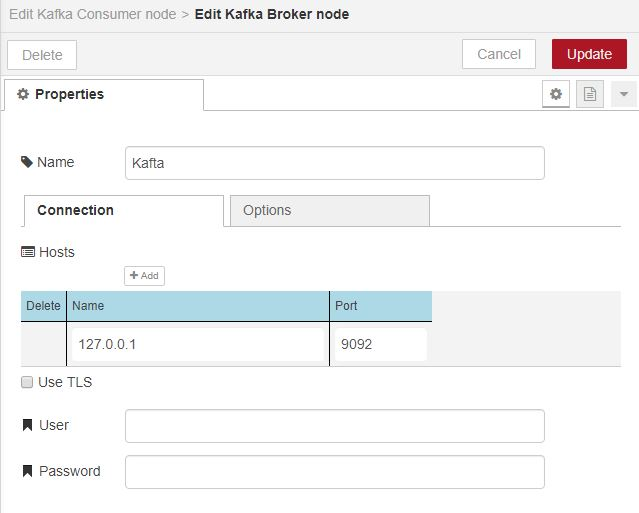
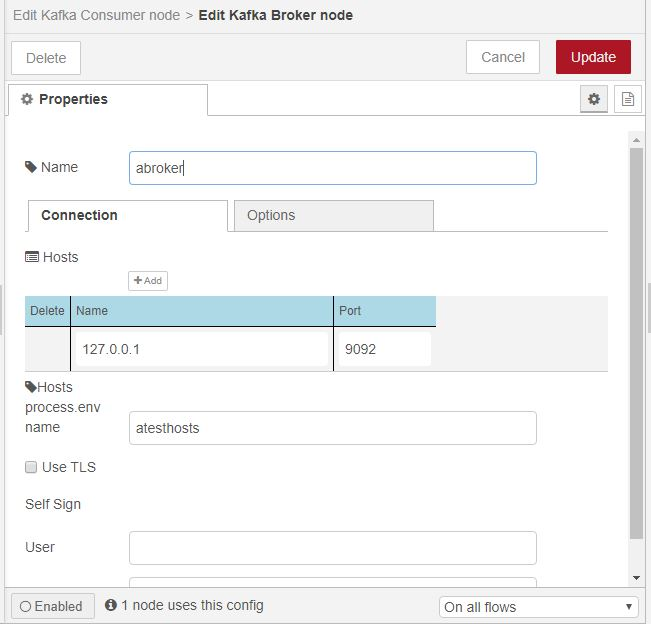
add broker hosts via process.env

diff --git a/kafkaManager/kafkaBroker.html b/kafkaManager/kafkaBroker.html
@@ -1,5 +1,8 @@
 <script type="text/x-red" data-help-name="Kafka Broker">
     <p>Define a Kafka Broker. </p>
+    <p>"Hosts process.env name" can contain a process.env property name that contained hosts as JSON string,e.g.</p>
+    <textarea>process.env.atesthosts='[{"host":"atesthost1","port":1234},{"host":"atesthost2","port":4321}]';</textarea>
+    <p>Note, minimal data quality checks performed.</p>
 </script>
 
 <script type="text/x-red" data-template-name="Kafka Broker">
@@ -16,24 +19,28 @@
     <div id="node-config-kafkaBroker-tabs-content" style="min-height: 170px;">
 		<div id="kafkaBroker-tab-connection" style="display:none">
 
-
-   <div class="form-row node-input-hosts-container-row" style="margin-bottom:0px; width:100%; min-width:520px">
-		<label style="vertical-align:top;">
-			<i class="fa fa-list-alt"></i> Hosts 
-        	<a href="#" class="editor-button editor-button-small" id="node-input-add-host" style="margin-top: 4px; margin-left: 103px;"><i class="fa fa-plus"></i> <span>Add</span></a>
-		</label>
-		<div style="width:100%; display: inline-block; background-color:#f3f3f3; border-top:0px solid; border-radius:0 0 0 0; border-bottom:1px solid #ccc;">
-				<table>
- 	              	<tbody id="node-input-hosts-tbody" stype="display: block;  overflow: auto; max-width:400px; max-height: 400px;">
-                		<tr style="padding-left:4px; border-bottom: 1px solid black; background: lightblue; position: sticky; top: 0;">
-                			<td style="min-width: 10px;">Delete</td>
-                			<td style="min-width: 200px;">Name</td>
-                			<td style="min-width: 60px;">Port </td>
-                		</tr>
-                	</tbody>
-			</table>
-		</div>
-    </div>
+			<div class="form-row node-input-hosts-container-row" style="margin-bottom:0px; width:100%; min-width:520px">
+				<label style="vertical-align:top;">
+					<i class="fa fa-list-alt"></i> Hosts 
+        			<a href="#" class="editor-button editor-button-small" id="node-input-add-host" style="margin-top: 4px; margin-left: 103px;"><i class="fa fa-plus"></i> <span>Add</span></a>
+				</label>
+				<div style="width:100%; display: inline-block; background-color:#f3f3f3; border-top:0px solid; border-radius:0 0 0 0; border-bottom:1px solid #ccc;">
+					<table>
+ 	              		<tbody id="node-input-hosts-tbody" stype="display: block;  overflow: auto; max-width:400px; max-height: 400px;">
+                			<tr style="padding-left:4px; border-bottom: 1px solid black; background: lightblue; position: sticky; top: 0;">
+                				<td style="min-width: 10px;">Delete</td>
+                				<td style="min-width: 200px;">Name</td>
+                				<td style="min-width: 60px;">Port </td>
+                			</tr>
+                		</tbody>
+					</table>
+				</div>
+ 			</div>
+ 			
+ 			<div class="form-row">
+        		<label for="node-config-input-hostsEnvVar"><i class="fa fa-tag"></i>Hosts process.env name</label>
+        		<input id="node-config-input-hostsEnvVar" type="text" >
+    		</div>
 
 			<div class="form-row">
 				<input type="checkbox" id="node-config-input-usetls" style="display: inline-block; width: auto; vertical-align: top;">
@@ -122,7 +129,8 @@
         	name: {required:false},
         	host: {required:false},   // legacy can be removed in future
         	port: {required:false},   // legacy can be removed in future
-        	hosts: {value:[{host:"127.0.0.1",port:9092}] ,required:true},
+        	hosts: {value:[{host:"127.0.0.1",port:9092}] ,required:true}, 
+        	hostsEnvVar: {value:"",required:false},
 			connectTimeout: {value:10000, required:false,validate:RED.validators.number()},
 			requestTimeout: {value:30000, required:false,validate:RED.validators.number()},
 			autoConnect: {value:"true", required:false},

diff --git a/kafkaManager/kafkaBroker.js b/kafkaManager/kafkaBroker.js
@@ -84,14 +84,14 @@ function testHosts (node) {
 }
 
 function testHost (node, i) {
-  if (i >= node.hosts.length) {
+  if (i >= node.hostsCombined.length) {
     if (!node.available) return
     node.available = false
     node.error('state change down')
     stateChange(node.stateDown, 'Down')
     return
   }
-  const host = node.hosts[i]
+  const host = node.hostsCombined[i]
   if(logger.active) logger.send({
     label: 'testHost',
     host: host.host,
@@ -162,7 +162,7 @@ function connect (node, type, errCB) {
     if (errCB) errCB.apply(node, ['connect attempt and not available'])
     return
   }
-  if (!node.brokerNode.hosts.length) {
+  if (!node.brokerNode.hostsCombined.length) {
     node.connecting = false
     node.log('host and/or port not defined')
     node.status({
@@ -260,13 +260,43 @@ module.exports = function (RED) {
       stateDown: [],
       onStateUp: []
     })
+    node.hostsCombined=[];
+    if(node.hostsEnvVar) {
+        if(node.hostsEnvVar in process.env) {
+        	try{
+            	const hosts=JSON.parse(process.env[node.hostsEnvVar]);
+            	if(hosts) {
+            		logger.send({label:"test",hosts:hosts});
+            		if(hosts instanceof Array) {
+            			node.hostsCombined=node.hostsCombined.concat(hosts);
+            		} else {
+            			throw Error("not array value: "+process.env[node.hostsEnvVar]);
+            		}
+            	}
+        	} catch(e) {
+    			const error="process.env variable "+node.hostsEnvVar+e.toString();
+//    			node.error(error);
+    			throw Error(error);
+        	}
+        } else {
+        	const error="process.env."+node.hostsEnvVar+" not found ";
+        	node.warn(error);
+            node.status({
+                fill: 'red',
+                shape: 'ring',
+                text: error
+              });
+        }
+    }
     if (node.hosts.length === 0 && node.host) {
       node.hosts.push({
         host: node.host,
         port: node.port
       })
     }
-    node.kafkaHost = node.hosts.map((r) => r.host + ':' + r.port).join(',')
+    node.hostsCombined=node.hostsCombined.concat(node.hosts);
+    logger.send({hosts:node.hostsCombined});
+    node.kafkaHost = node.hostsCombined.map((r) => r.host + ':' + r.port).join(',')
 
     node.getKafkaDriver = () => {
       if (!kafka) {

diff --git a/README.md b/README.md
@@ -17,7 +17,11 @@ Note: all nodes run in debug mode for 100 messages then turns off.
 
 ## Kafka Broker
 
-Defines the client interface to kafka. 
+Defines the client interface to kafka. One can add process.env for hosts with 
+
+	process.env.atesthosts='[{"host":"atesthost1","port":1234},{"host":"atesthost2","port":4321}]';
+
+in settitngs.js
 
 ![Kafka Broker](documentation/broker.JPG "Kafka Broker")
 ![Kafka Broker Options](documentation/brokerOptions.JPG "Kafka Broker Options")
@@ -104,6 +108,7 @@ Includes sample script for start kafka in windows using node-red
 ------------------------------------------------------------
 
 # Version
+0.3.0 Add hosts list by process.env
 0.2.14 Add self serve TLS and fix bug plus mask ssl info when debug logging
 0.2.9 Change debugging mechanism and add kafka-node to dependencies
 0.2.8 Added all admin api's per Kafka 2.3 but dependent on [kafka-node][4] update.
